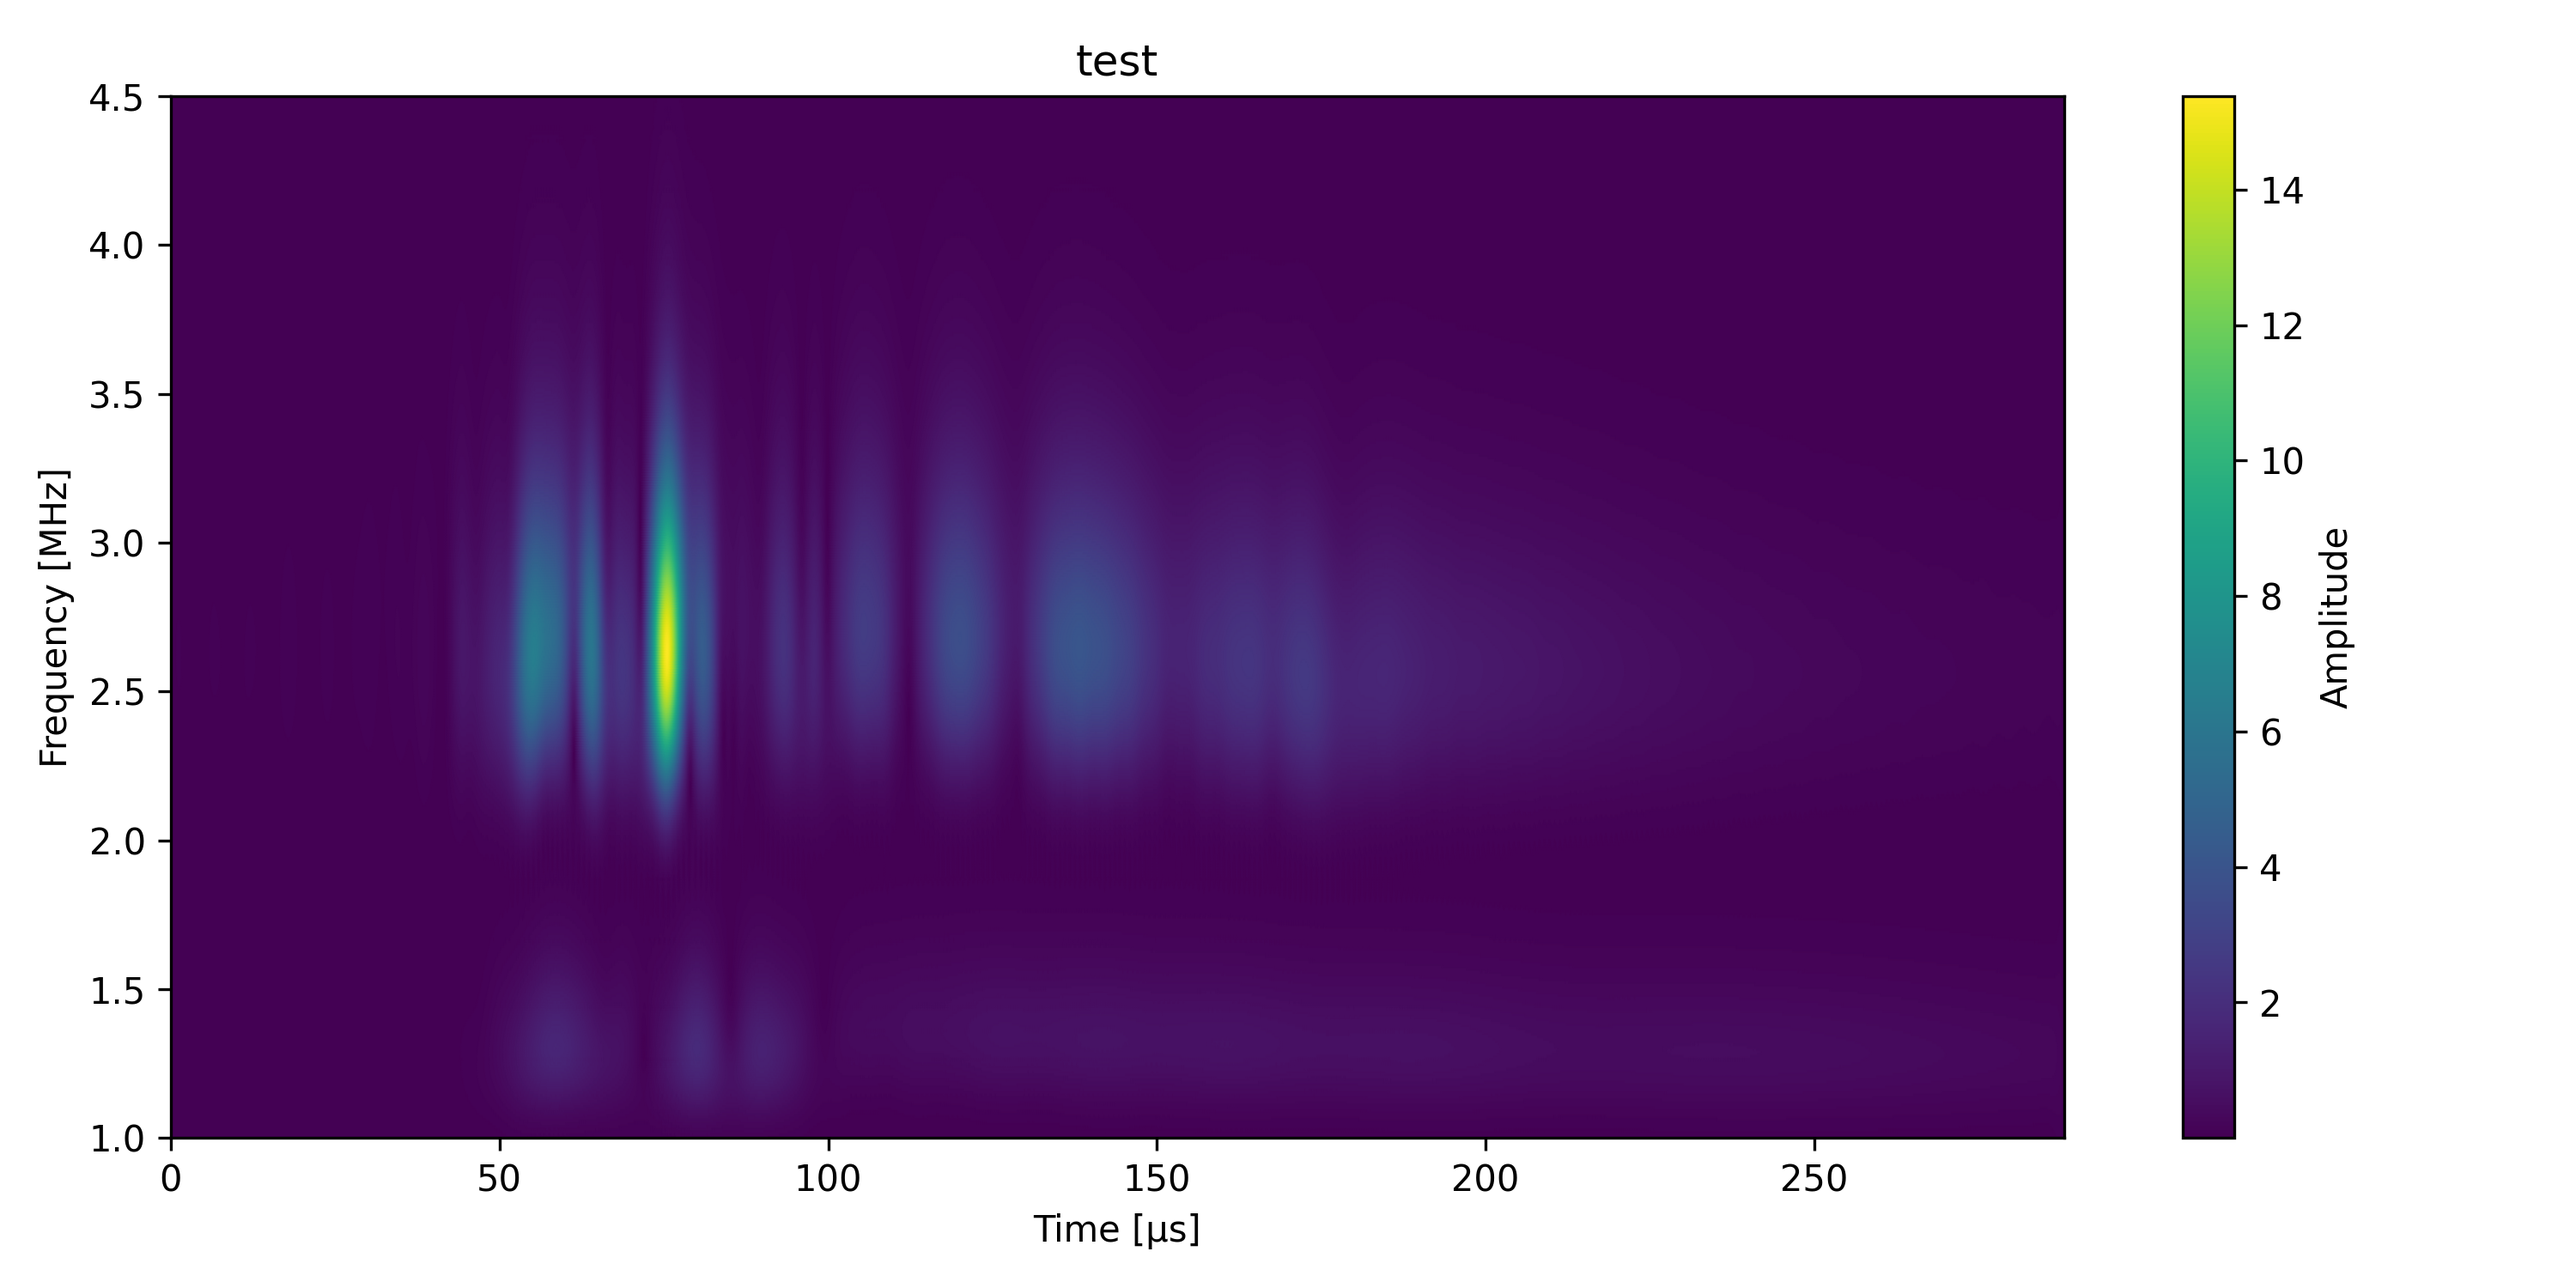
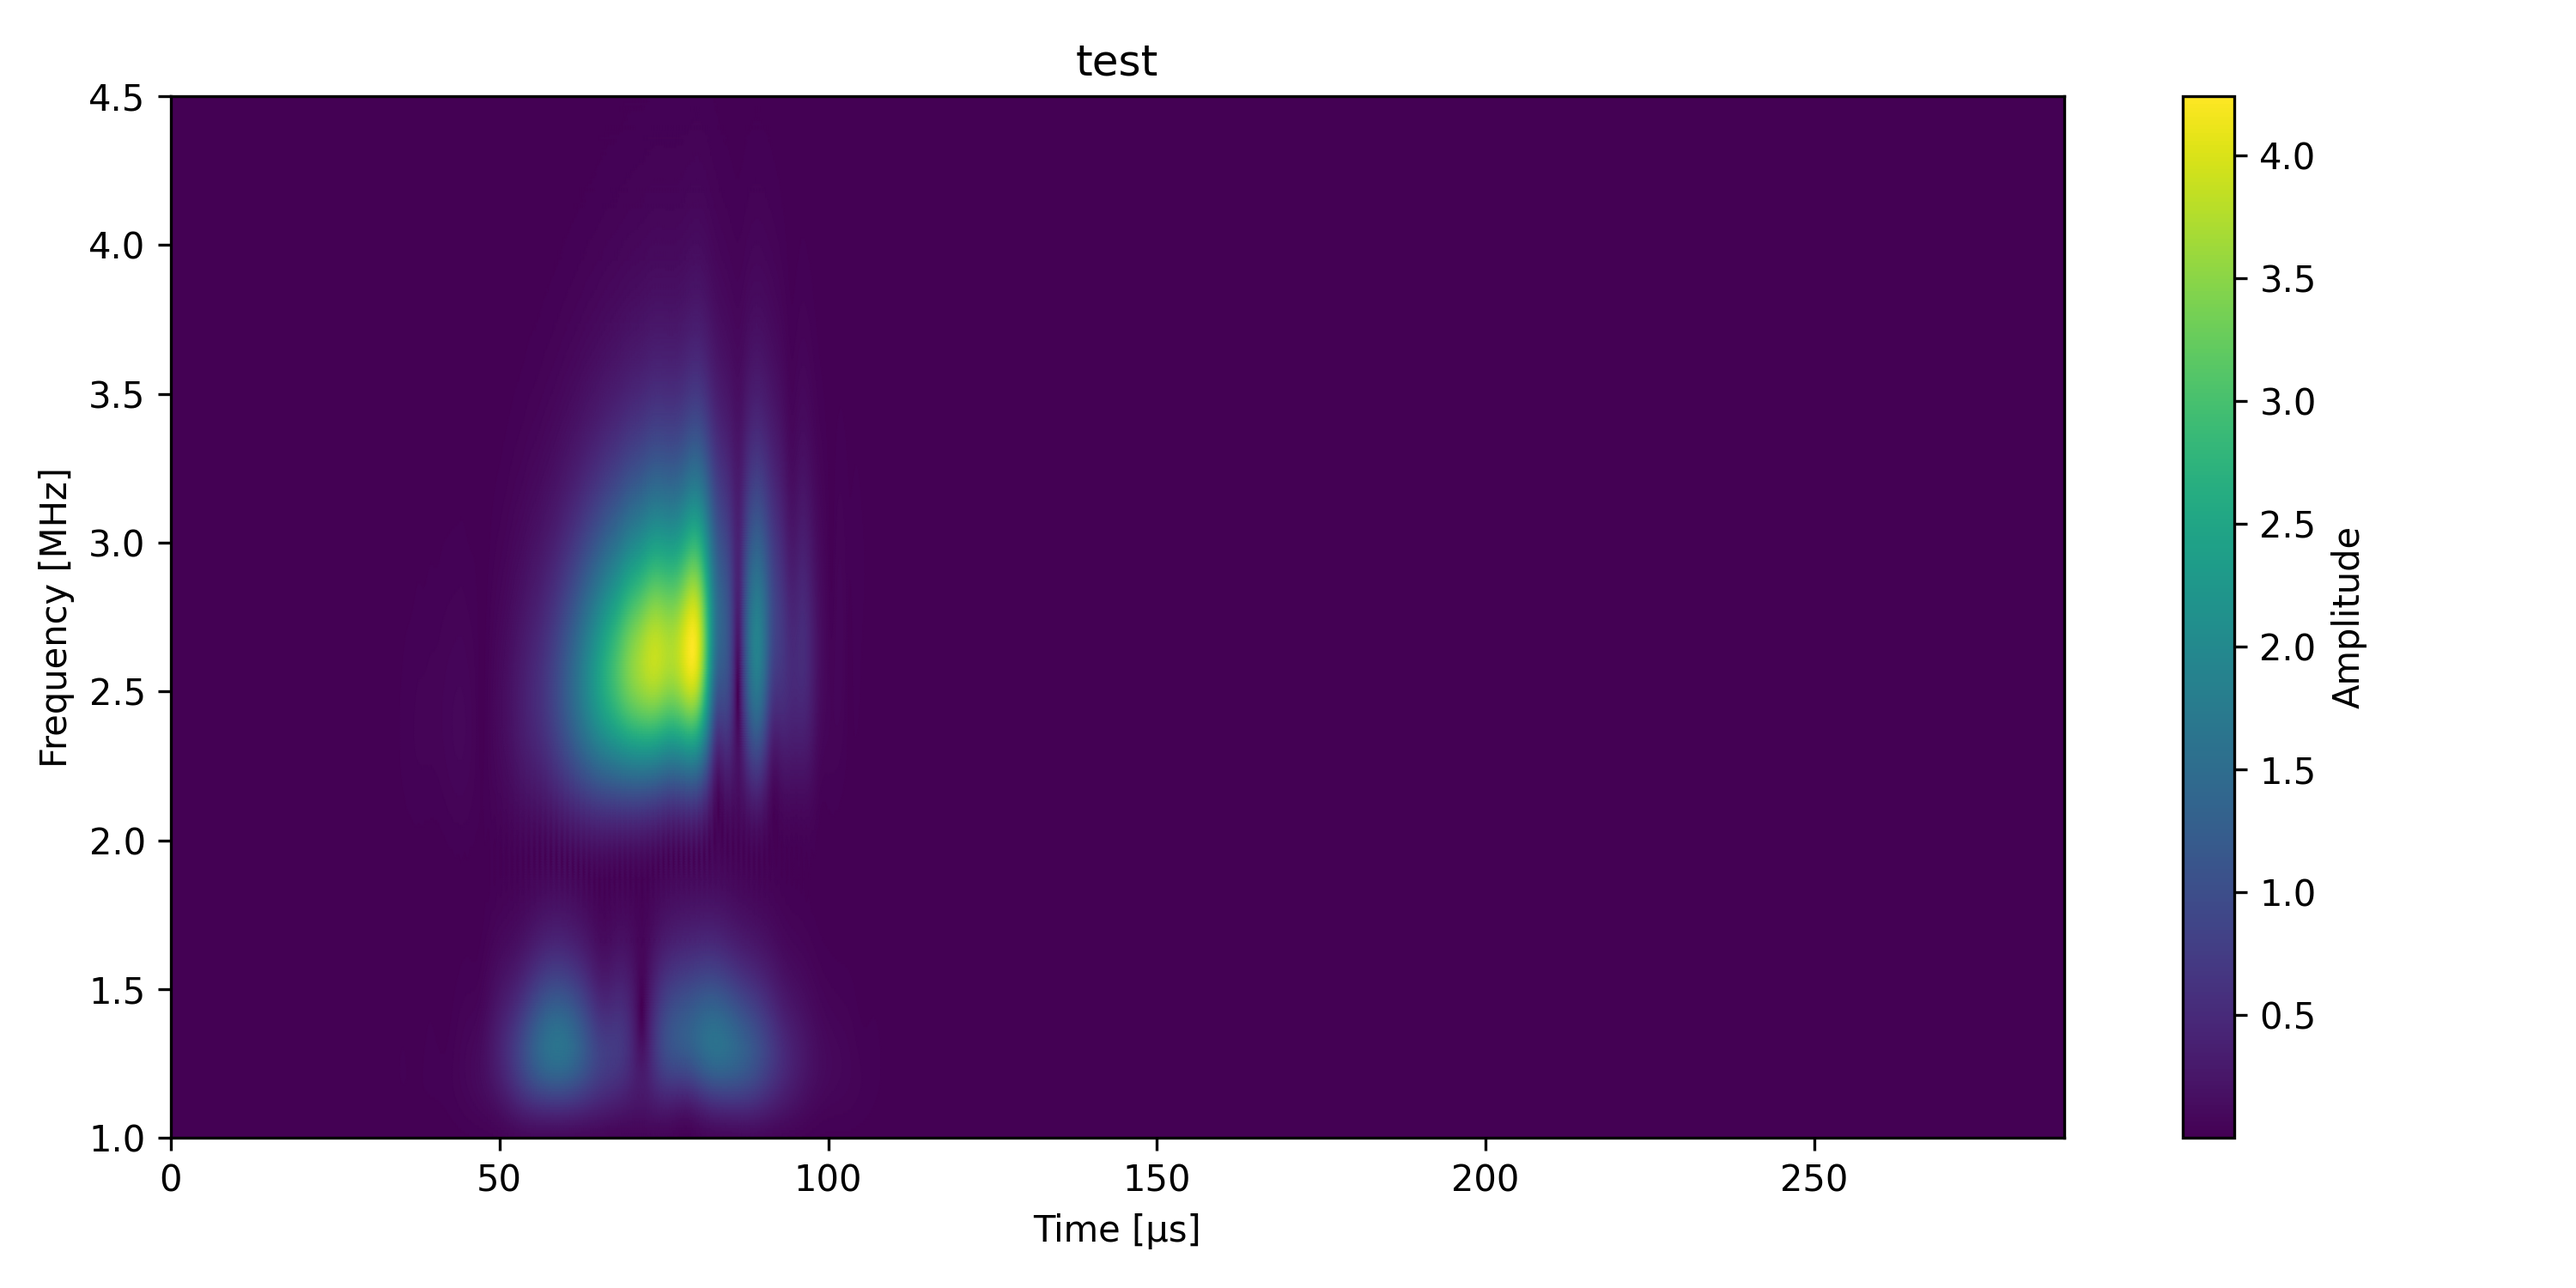
initial waveform: Jesse

diff --git a/Mains/main_wavelet.py b/Mains/main_wavelet.py
@@ -34,13 +34,8 @@ WILL BE INCLUDED IN THE SIGNAL. NEVER ALTER THE LISTS AND DICTIONARIES ABOVE!!!!
 THE MODES YOU WANT TO BE FOUND IN THE SIGNAL SHOULD BE INCLUDED IN time_stamp AS A DICTIONARY
 
 '''
-modes_harmonic = ["S0 Propagated signal (nm)", "S1 Propagated signal (nm)", "S2 Propagated signal (nm)", "S3 Propagated signal (nm)", "S4 Propagated signal (nm)",
-         "S5 Propagated signal (nm)", "S6 Propagated signal (nm)", "S7 Propagated signal (nm)", "S8 Propagated signal (nm)", "A0 Propagated signal (nm)",
-         "A1 Propagated signal (nm)", "A2 Propagated signal (nm)", "A3 Propagated signal (nm)", "A4 Propagated signal (nm)", "A5 Propagated signal (nm)",
-         "A7 Propagated signal (nm)"]
-modes_base = ["S0 Propagated signal (nm)", "S1 Propagated signal (nm)", "S2 Propagated signal (nm)", "S3 Propagated signal (nm)",
-                  "A0 Propagated signal (nm)", "A1 Propagated signal (nm)", "A2 Propagated signal (nm)", "A3 Propagated signal (nm)",
-                  "A4 Propagated signal (nm)"]
+modes_harmonic = ["S2 Propagated signal (nm)", "S3 Propagated signal (nm)", "S4 Propagated signal (nm)", "A3 Propagated signal (nm)"]
+modes_base = ["S2 Propagated signal (nm)", "S3 Propagated signal (nm)", "A3 Propagated signal (nm)"]
 time_stamp_harmonic = {"S1": 68.4808,  "S2": 76.5127, "A4": 91.8515  , "S4": 64.9935, "A2": 71.7798, "S0": 70.7973, "A0": 70.7951}
 time_stamp_base = {"S1": 68.4808,  "S2": 76.5127, "A4": 91.8515  , "S4": 64.9935, "A2": 71.7798, "S0": 70.7973, "A0": 70.7951}
 
@@ -103,3 +98,17 @@ plt.tight_layout()
 plt.show()
 print(max(signal))
 print(max(Recon_harmonic_W))
+
+#Jesse stuff
+"""
+# Plot initial waveform
+plt.clf()
+plt.plot(t, signal)
+plt.title("initial waveform")
+
+# Fix 1: You must specify a file name and format string inside savefig
+plt.savefig("initial_waveform.png") 
+
+# Fix 2: You must add this line to actually display the window on your screen
+plt.show() 
+"""
